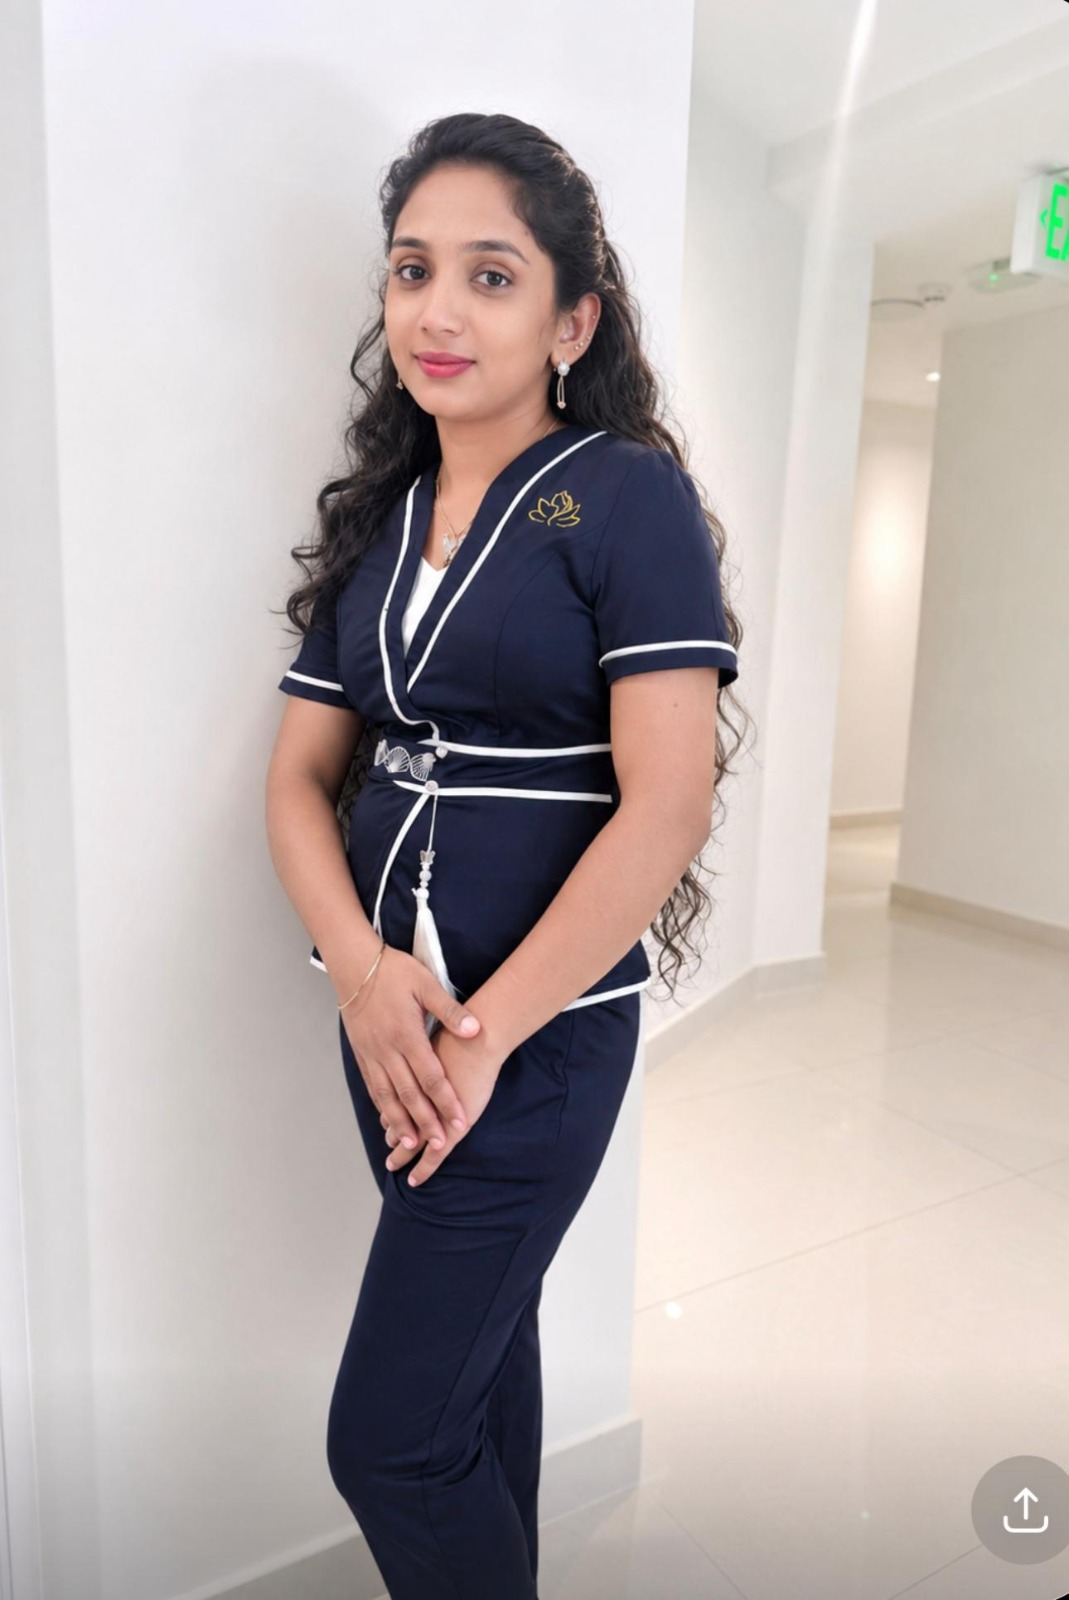
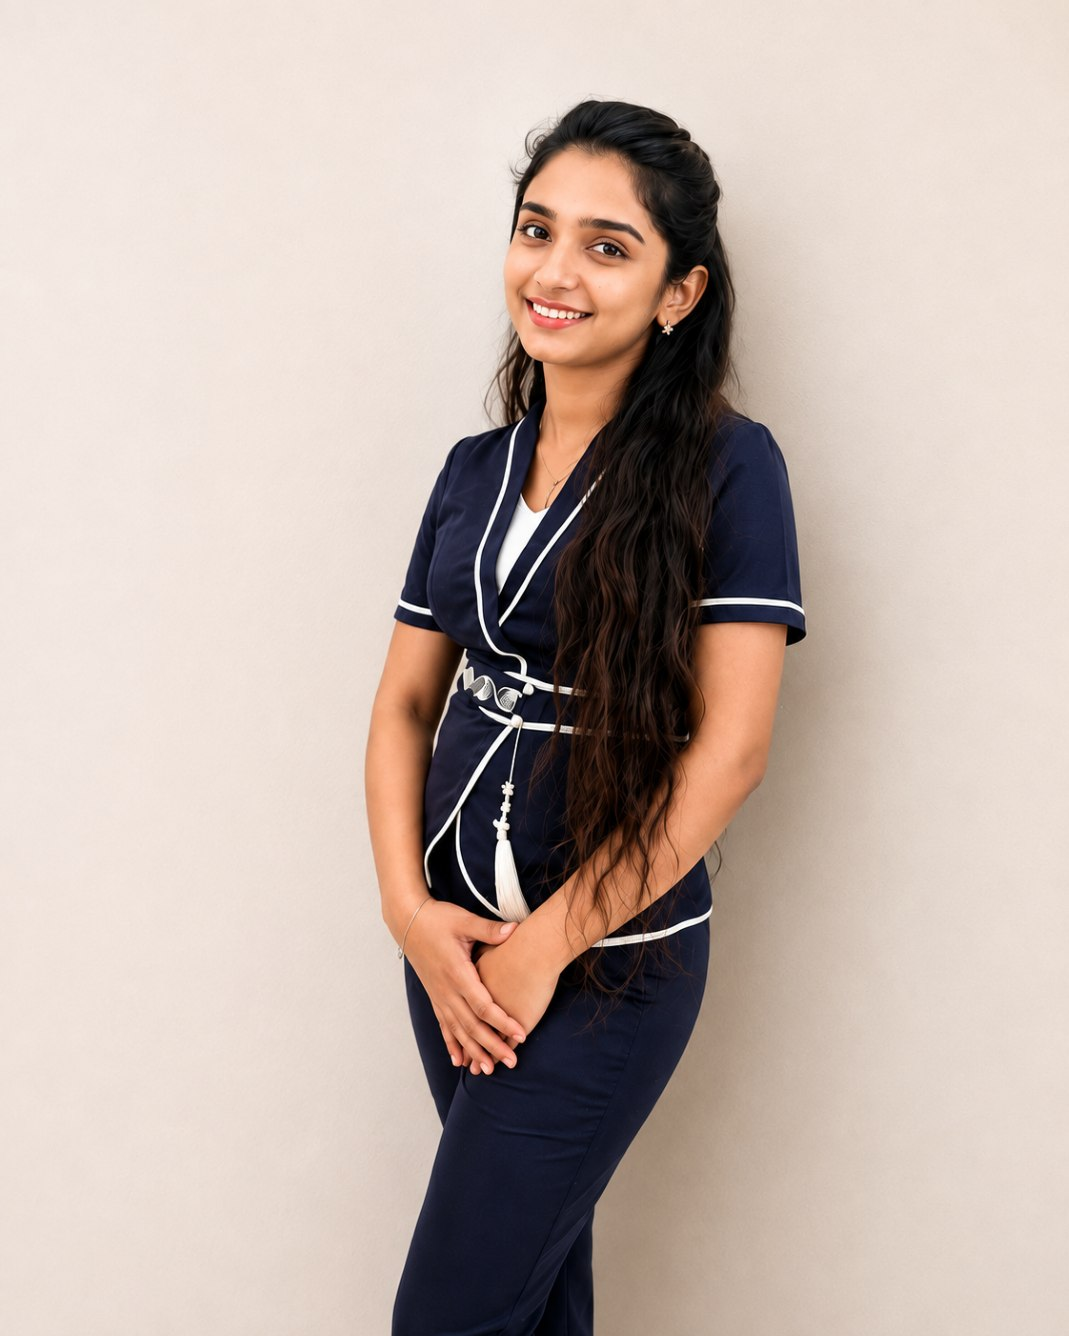
correction-4

diff --git a/app/page.tsx b/app/page.tsx
@@ -70,12 +70,20 @@ export default function Home() {
       {/* HERO */}
       <section className="relative flex min-h-[92vh] flex-col justify-end overflow-hidden bg-brand-900 sm:min-h-[88vh]">
         <Image
+          src="/imgs/main-banner-mobile.webp"
+          alt="A candlelit couple's suite at Whispering Waters Spa with jacuzzi and rose petals"
+          fill
+          priority
+          sizes="100vw"
+          className="object-cover object-[75%_center] opacity-90 sm:hidden"
+        />
+        <Image
           src="/imgs/main-banner.webp"
           alt="A candlelit couple's suite at Whispering Waters Spa with jacuzzi and rose petals"
           fill
           priority
           sizes="100vw"
-          className="object-cover opacity-90"
+          className="hidden object-cover opacity-90 sm:block"
         />
         <div className="absolute inset-0 bg-linear-to-t from-brand-900/50 via-brand-900/28 to-brand-900/5" />
         <div className="absolute inset-0 bg-linear-to-r from-brand-900/40 via-brand-900/10 to-transparent" />
@@ -234,15 +242,20 @@ export default function Home() {
           <div className="mt-14 grid grid-cols-2 gap-4 sm:grid-cols-3 md:gap-5 lg:grid-cols-4">
             {THERAPISTS.map((src, i) => (
               <Reveal key={src} delay={((i % 4) + 1) as 1 | 2 | 3 | 4}>
-                <div className="relative aspect-4/5 w-full overflow-hidden rounded-2xl">
+                <a
+                  href={buildWhatsAppLink(`Hi ${BUSINESS.name}, I'd like to book an appointment.`)}
+                  target="_blank"
+                  rel="noopener noreferrer"
+                  className="group relative block aspect-4/5 w-full overflow-hidden rounded-2xl"
+                >
                   <Image
                     src={src}
                     alt="Whispering Waters Spa therapist"
                     fill
                     sizes="(min-width: 1024px) 22vw, (min-width: 640px) 30vw, 45vw"
-                    className="object-cover object-top transition-transform duration-700 hover:scale-105"
+                    className="object-cover object-top transition-transform duration-700 group-hover:scale-105"
                   />
-                </div>
+                </a>
               </Reveal>
             ))}
           </div>
